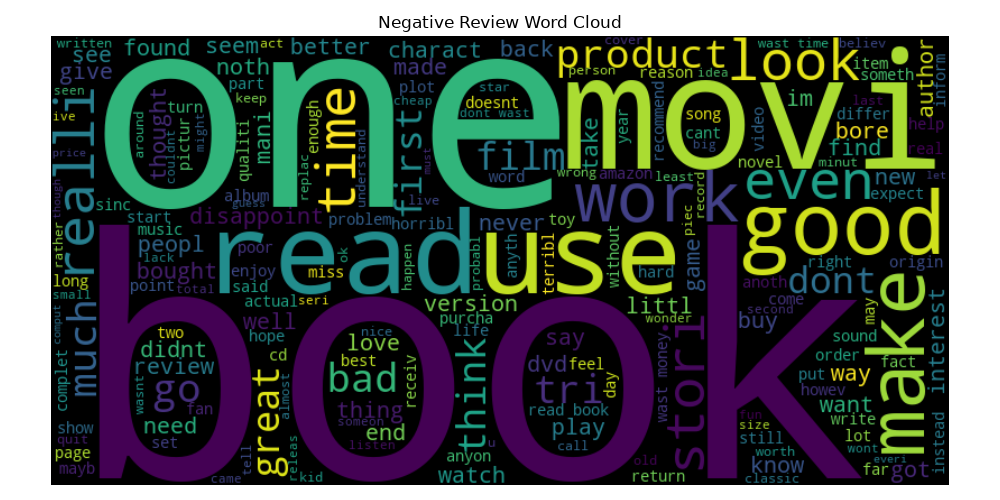
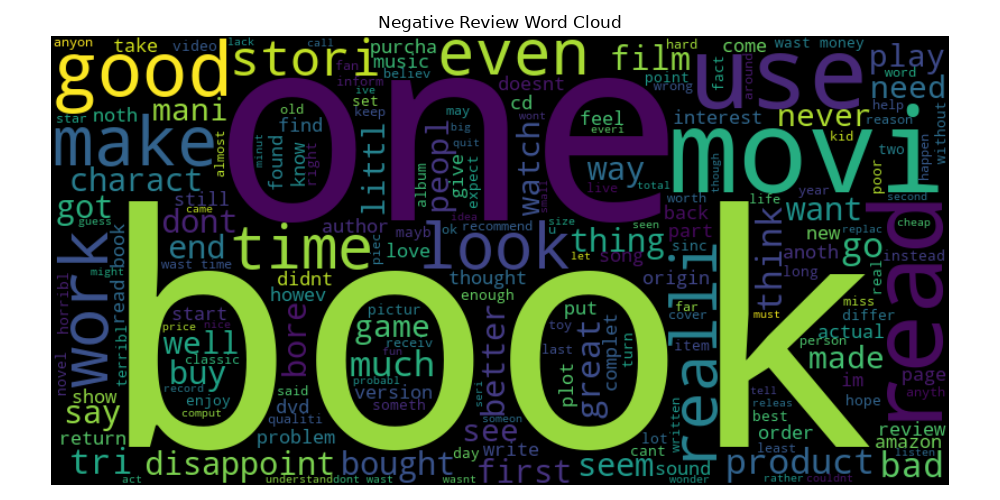
Deploy

diff --git a/app.py b/app.py
@@ -13,8 +13,8 @@ nltk.download("punkt_tab")
 nltk.download("stopwords")
 
 # Load model and vectorizer
-model = joblib.load("sentiment_model.pkl")
-vectorizer = joblib.load("tfidf_vectorizer.pkl")
+model = joblib.load("models/sentiment_model.pkl")
+vectorizer = joblib.load("models/tfidf_vectorizer.pkl")
 
 stop_words = set(stopwords.words("english"))
 stemmer = PorterStemmer()

diff --git a/data_analysis.py b/data_analysis.py
@@ -450,9 +450,9 @@ print("\nPrediction:", result)
 import joblib
 
 # Save trained model
-joblib.dump(model, "sentiment_model.pkl")
+joblib.dump(model, "models/sentiment_model.pkl")
 
 # Save TF-IDF Vectorizer
-joblib.dump(vectorizer, "tfidf_vectorizer.pkl")
+joblib.dump(vectorizer, "models/tfidf_vectorizer.pkl")
 
 print("\nModel saved successfully!")
